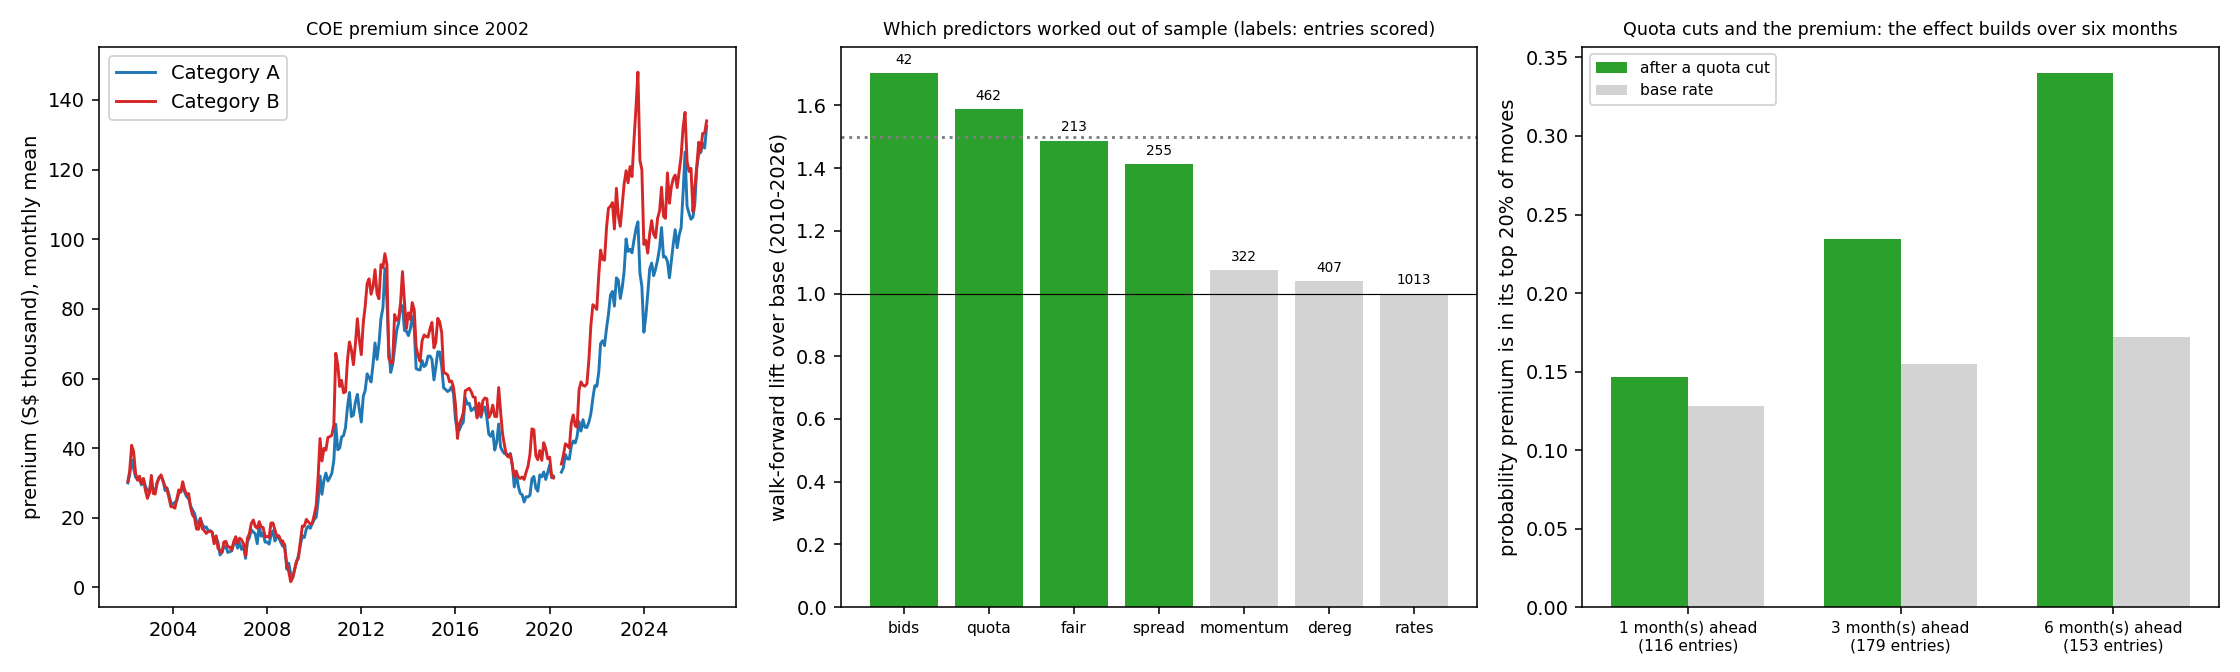
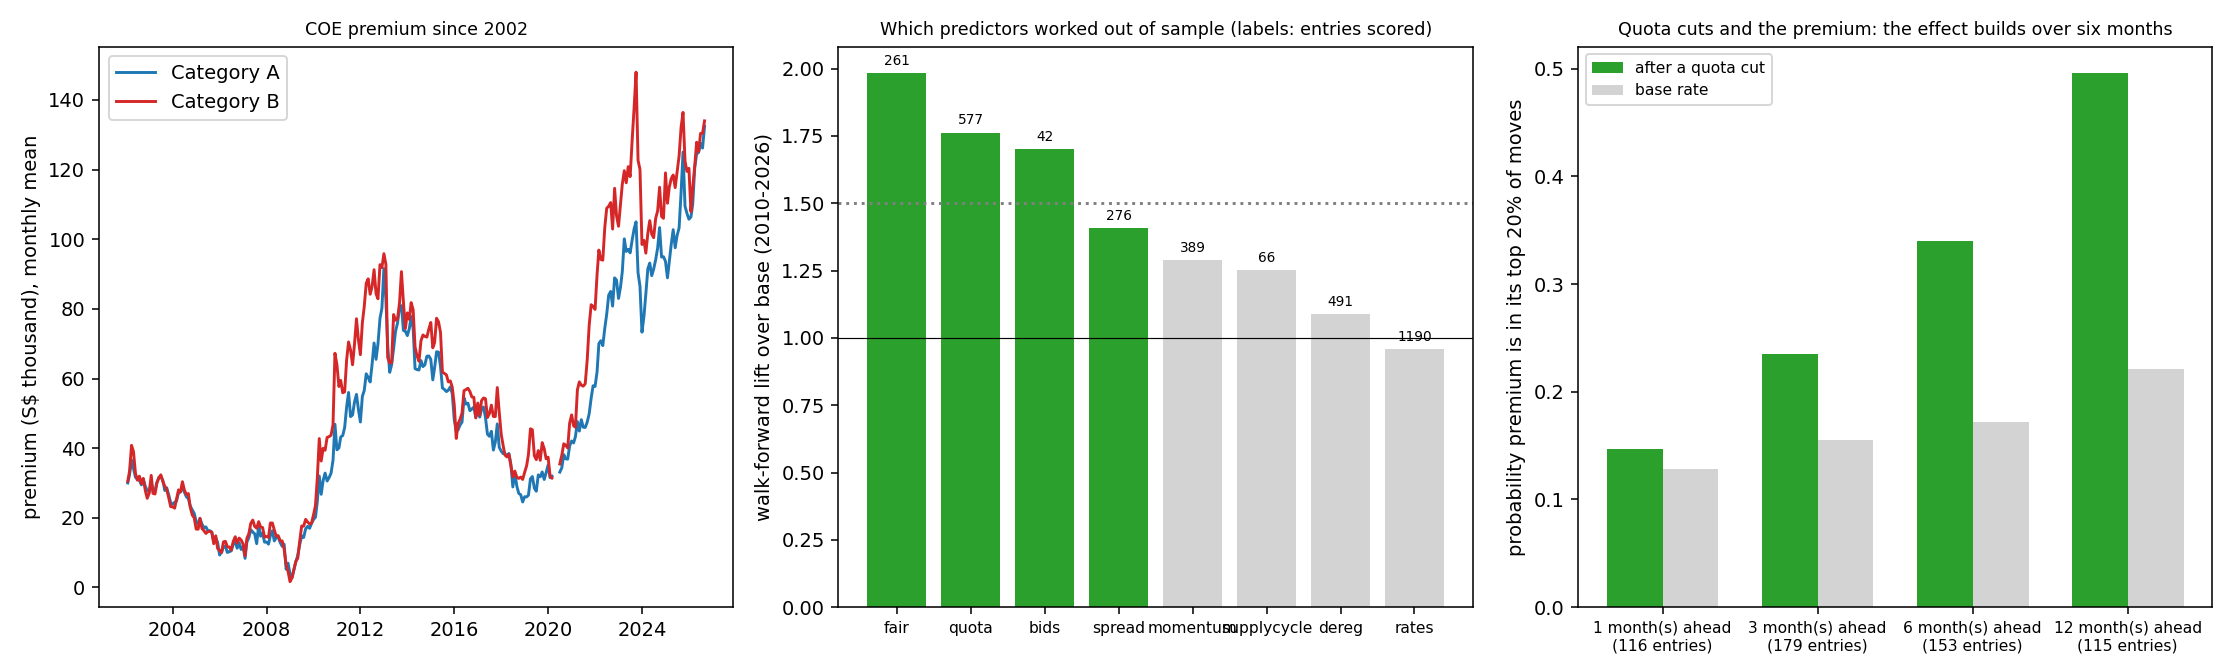
COE: decade-long cycle and the 10-year COE life; supply-cycle family and 12-month horizon in the walk-forward

diff --git a/research/coe_cycle_analysis.py b/research/coe_cycle_analysis.py
@@ -1,0 +1,77 @@
+"""Is there a roughly decade-long cycle in the COE premium, and does the 10-year COE life explain it?
+1. Periodicity: peaks and troughs of the 12-month-smoothed log premium; periodogram of the detrended log premium (linear trend in the log), Category A and B.
+2. Echo: a COE lasts 10 years, so cars registered in month t reach expiry in month t+120 (renewal for 5 or 10 years is possible at the prevailing premium). Cross-correlation of de-registrations with new registrations k months earlier (k = 0..180), and of quota with new registrations 120 months earlier.
+3. Pipeline: new registrations 120 months ago, as a schedule of expiries for the coming years, against current de-registrations and quota.
+Caveat in the output: the premium has only about two full cycles in 24 years."""
+import os, sys, warnings
+warnings.filterwarnings('ignore')
+import numpy as np, pandas as pd
+import matplotlib; matplotlib.use('Agg'); import matplotlib.pyplot as plt
+ROOT = os.path.dirname(os.path.dirname(os.path.abspath(__file__))); sys.path.insert(0, ROOT)
+from sgtiming import panel
+Q = panel.quota_panel(); F = panel.flows()
+
+print('1. PERIODICITY OF THE PREMIUM')
+for cat in ['A', 'B']:
+    lp = np.log(Q[cat]['premium']).interpolate(); sm = lp.rolling(12, center=True, min_periods=6).mean()
+    # local extrema of the smoothed series with a 36-month exclusion window
+    ex = []
+    for i in range(36, len(sm) - 36):
+        w = sm.iloc[i - 36:i + 37]
+        if sm.iloc[i] == w.max(): ex.append(('peak', sm.index[i].strftime('%Y-%m'), round(float(np.exp(sm.iloc[i])))))
+        if sm.iloc[i] == w.min(): ex.append(('trough', sm.index[i].strftime('%Y-%m'), round(float(np.exp(sm.iloc[i])))))
+    print(f' Category {cat} extrema of the smoothed premium: {ex}')
+    t = np.arange(len(lp)); b = np.polyfit(t, lp.values, 1); res = lp.values - np.polyval(b, t); res = res - res.mean()
+    n = len(res); pad = 8 * n; fft = np.fft.rfft(res * np.hanning(n), pad); power = np.abs(fft) ** 2; freq = np.fft.rfftfreq(pad, d=1.0)   # cycles per month
+    per = np.where(freq > 0, 1 / np.maximum(freq, 1e-9) / 12, np.inf)   # years
+    m = (per >= 2) & (per <= 20); top = np.argsort(power[m])[::-1][:1]; print(f'   periodogram peak of the detrended log premium (periods 2 to 20 years): {per[m][top][0]:.1f} years; detrended series spans {n / 12:.1f} years')
+    ac = pd.Series(res).autocorr
+    print('   autocorrelation of the detrended log premium at lags of 2, 4, 6, 8, 10, 12 years:', [round(ac(int(12 * y)), 2) for y in (2, 4, 6, 8, 10, 12)])
+
+print('\n2. ECHO OF THE 10-YEAR COE LIFE')
+nr = (F['newreg_A'] + F['newreg_B']); dr = (F['dereg_A'] + F['dereg_B']); q = (Q['A']['quota'] + Q['B']['quota'])
+d = pd.DataFrame({'nr': nr, 'dr': dr}).dropna(); res = []
+for k in range(0, 181, 6):
+    x = np.log(d['nr'].shift(k)); y = np.log(d['dr']); ok = x.notna() & y.notna(); res.append((k, float(np.corrcoef(x[ok], y[ok])[0, 1])))
+print(' corr(log de-registrations_t, log new registrations_{t-k}) by lag k in months:'); print('  ', [(k, round(c, 2)) for k, c in res if k % 12 == 0])
+best = max(res, key=lambda r: r[1]); print(f'   strongest lag in this grid: {best[0]} months (corr {best[1]:.2f})')
+x = np.log(nr.shift(120)); y = np.log(q.reindex(nr.index)); ok = x.notna() & y.notna(); print(f' corr(log quota_t, log new registrations_{{t-120}}) over {ok.sum()} months: {np.corrcoef(x[ok], y[ok])[0, 1]:.2f}')
+x2 = np.log(nr.shift(120).rolling(12).mean()); y2 = np.log(dr.rolling(12).mean()); ok = x2.notna() & y2.notna(); print(f' corr of 12-month means, de-registrations vs new registrations 10 years earlier: {np.corrcoef(x2[ok], y2[ok])[0, 1]:.2f} ({ok.sum()} months)')
+
+print('\n3. EXPIRY PIPELINE (new registrations 120 months earlier, A+B, monthly average per year)')
+sched = nr.copy(); sched.index = sched.index + pd.DateOffset(months=120)
+for yr in range(2018, 2030):
+    s = sched[sched.index.year == yr]; a = dr[dr.index.year == yr]; qq = q[q.index.year == yr]
+    print(f'  {yr}: scheduled expiries (registrations of {yr - 10}) {s.mean():7.0f}/month' + (f' | actual de-registrations {a.mean():7.0f}' if len(a) else ' | (future)') + (f' | quota {qq.mean():6.0f}' if len(qq) else ''))
+fig, ax = plt.subplots(3, 1, figsize=(11, 10), sharex=True)
+for cat, col in (('A', 'tab:blue'), ('B', 'tab:red')): ax[0].plot(Q[cat].index, Q[cat]['premium'] / 1000, color=col, label=f'Category {cat}')
+ax[0].set_ylabel('premium (S$ thousand)'); ax[0].legend(); ax[0].set_title('COE premium and the 10-year echo', fontsize=10)
+ax[1].plot(nr.index, nr.rolling(6).mean(), color='tab:green', label='new registrations A+B (6-month mean)'); ax[1].plot(dr.index, dr.rolling(6).mean(), color='tab:orange', label='de-registrations A+B (6-month mean)'); ax[1].legend(fontsize=8); ax[1].set_ylabel('vehicles per month')
+ax[2].plot(sched.index, sched.rolling(6).mean(), color='tab:green', label='scheduled expiries: registrations 10 years earlier'); ax[2].plot(dr.index, dr.rolling(6).mean(), color='tab:orange', label='de-registrations'); ax[2].legend(fontsize=8); ax[2].set_ylabel('vehicles per month'); ax[2].set_xlim(pd.Timestamp('2002-01-01'), pd.Timestamp('2030-01-01'))
+plt.tight_layout(); plt.savefig(os.path.join(ROOT, 'research', 'coe_cycle_figure.png'), dpi=140)
+
+print('\n4. DOES THE KNOWN-AHEAD EXPIRY SCHEDULE SAY ANYTHING ABOUT THE NEXT 24 MONTHS OF PREMIUM? (two cycles only; overlapping months)')
+sch12 = np.log(sched.rolling(12).mean())               # schedule of expiries, indexed by the month the expiries fall due (known 10 years ahead)
+for cat in ['A', 'B']:
+    lp = np.log(Q[cat]['premium']).interpolate()
+    for h in (12, 24):
+        x = sch12.shift(-h) - sch12                      # change in the scheduled expiry flow over the next h months, known today
+        y = lp.shift(-h) - lp
+        d = pd.DataFrame({'x': x, 'y': y}).dropna(); d = d[(d.index >= '2008-01-01')]
+        print(f'  Category {cat}, h={h}: corr(next-{h}m change in scheduled expiries, next-{h}m change in premium) = {d.x.corr(d.y):+.2f} over {len(d)} months (about {len(d)/h:.1f} independent windows)')
+        # sign hit rate: when the schedule says supply will rise, does the premium fall?
+        up = d[d.x > 0.15]; dn = d[d.x < -0.15]
+        print(f'     schedule rising by >15%: {len(up)} months, premium fell in {np.mean(up.y < 0):.2f}; schedule falling by >15%: {len(dn)} months, premium rose in {np.mean(dn.y > 0):.2f}')
+latest = sched.rolling(12).mean()
+print('\n  scheduled expiries, 12-month mean (vehicles per month): mid-2026', round(float(latest['2026-08-01'])), '| 12 months ahead (Aug 2027)', round(float(latest['2027-08-01'])), '| 24 months ahead (Aug 2028)', round(float(latest['2028-08-01'])), '| actual de-registrations, 12-month mean now', round(float(dr.rolling(12).mean().iloc[-1])))
+
+print('\n5. LAG STRUCTURE: detrended log premium against the supply cycle (12-month mean de-registrations, A+B) k months earlier')
+dr12 = np.log(dr.rolling(12).mean())
+for cat in ['A', 'B']:
+    lp = np.log(Q[cat]['premium']).interpolate(); t = np.arange(len(lp)); res = pd.Series(lp.values - np.polyval(np.polyfit(t, lp.values, 1), t), index=lp.index)
+    out = []
+    for k in range(0, 61, 6):
+        d = pd.DataFrame({'p': res, 's': dr12.shift(k)}).dropna(); out.append((k, round(d.p.corr(d.s), 2)))
+    best = min(out, key=lambda r: r[1]); print(f'  Category {cat}: corr by lag k (months) {out}; most negative at k = {best[0]} ({best[1]})')
+    for lab, a, b in (('2002-2013', '2002-01-01', '2013-12-31'), ('2014-2026', '2014-01-01', '2026-09-30')):
+        dd = pd.DataFrame({'p': res, 's': dr12.shift(18)})[a:b].dropna(); print(f'     lag 18 months, {lab}: {dd.p.corr(dd.s):+.2f} ({len(dd)} months)')

diff --git a/research/coe_cpe_walkforward.py b/research/coe_cpe_walkforward.py
@@ -10,6 +10,7 @@ Predictors X (mechanism registered before any result; sign +1 = high X means pre
   fair     : log premium minus a quota-implied level (log premium on log 12-month quota, refit each year on past data)  -1
   spread   : log(B/A) minus its trailing 12-month mean; +1 for A (A cheap against B), -1 for B
   momentum : change in log premium over tau_p months                                  +1  (continuation)
+  supplycycle: change over the 12 months ending L months ago (L = 6, 12, 18) in the 12-month mean of de-registrations (which set the quota; the premium lags the supply cycle by 18 to 24 months, found in coe_cycle_analysis.py)   -1  (registered after that finding, so out-of-sample only from the walk-forward years)
 tau_p in 1, 3, 6, 12 where it applies; X tails q = 20% and 10% on each side.
 Walk-forward: for each test year 2010..2026, only entries whose outcome had resolved before 1 January of that year are used to set X and Y thresholds
 (all earlier data) and to admit conditions (lift >= 1.5, >= 20 entries, >= 4 episodes of entries more than tau_f months apart; base rate matched on calendar month).
@@ -22,7 +23,7 @@ ROOT = os.path.dirname(os.path.dirname(os.path.abspath(__file__))); sys.path.ins
 from sgtiming import panel
 
 Q = panel.quota_panel(); F = panel.flows(); R = panel.rates(); idx = Q['A'].index
-TP = [1, 3, 6, 12]; TF = [1, 3, 6]; QS = [0.20, 0.10]; YEARS = list(range(2010, 2027)); LAGD = 2
+TP = [1, 3, 6, 12]; TF = [1, 3, 6, 12]; QS = [0.20, 0.10]; YEARS = list(range(2010, 2027)); LAGD = 2
 
 
 def build_X(cat):
@@ -30,13 +31,15 @@ def build_X(cat):
     lp = np.log(d['premium']); lq = np.log(d['quota']); ratio = d['bids'] / d['quota']
     dereg = F['dereg_' + cat].reindex(idx).shift(LAGD); gov = R['gov2y'].reindex(idx).shift(1)
     spread = (np.log(Q['B']['premium']) - np.log(Q['A']['premium'])); sp_dev = spread - spread.rolling(12, min_periods=9).mean()
-    X = {}; SIGN = {'quota': -1, 'dereg': -1, 'bids': +1, 'rates': -1, 'value': -1, 'fair': -1, 'spread': (+1 if cat == 'A' else -1), 'momentum': +1}
+    X = {}; SIGN = {'quota': -1, 'dereg': -1, 'bids': +1, 'rates': -1, 'value': -1, 'fair': -1, 'supplycycle': -1, 'spread': (+1 if cat == 'A' else -1), 'momentum': +1}
     for tp in TP:
         X[('quota', tp)] = lq - lq.shift(tp)
         X[('dereg', tp)] = np.log(dereg.rolling(tp, min_periods=max(1, tp // 2)).mean()) - np.log(dereg.rolling(12, min_periods=9).mean())
         X[('bids', tp)] = ratio.rolling(tp, min_periods=max(1, tp // 2)).mean()
         X[('rates', tp)] = gov - gov.shift(tp)
         X[('momentum', tp)] = lp - lp.shift(tp)
+    sc = np.log(dereg.rolling(12, min_periods=9).mean())
+    for L in (6, 12, 18): X[('supplycycle', L)] = sc.shift(L) - sc.shift(L + 12)
     X[('value', 0)] = lp - lp.rolling(12, min_periods=9).mean(); X[('spread', 0)] = sp_dev
     return lp, lq, X, SIGN
 

diff --git a/research/RESULTS.md b/research/RESULTS.md
@@ -5,12 +5,12 @@ Data: monthly series from data.gov.sg, 2002-02 to 2026-09 (296 months), old Cate
 ## Design
 Eight predictor families with the mechanism registered first (quota supply, de-registrations, bid pressure, interest rates, valuation against the one-year mean, valuation against a quota-implied level, the B/A spread, momentum), tau_p of 1 to 12 months, tau_f of 1, 3 and 6 months, X tails of 20% and 10% on each side. For each test year 2010 to 2026 all thresholds and the admission (lift >= 1.5, >= 20 entries, >= 4 episodes, base rate matched on calendar month) use only entries whose outcome had resolved before 1 January of that year. Admitted conditions are scored on that year's entries; pooled lift is against the same-calendar-month base rate over 2010 to 2026. Entries overlap (every month is an entry), so counts of scored months are reported next to episodes.
 
-## Results
-- 715 admitted condition-years (198 distinct conditions), 2,714 scored entries: CPE 0.160 against a base of 0.132, lift 1.21.
-- By family (lift, entries): quota 1.59 (462), bids 1.70 (42, too few), quota-implied level 1.49 (213), spread 1.41 (255); momentum 1.07, de-registrations 1.04, interest rates 1.00. By horizon: one month 0.93, three months 1.12, six months 1.52.
-- Rarity: no gradient overall (20% tails 1.26, 10% tails 1.06); inside the quota family the rarer tail is stronger (1.83 against 1.47).
-- The quota effect is one-sided. After quota cuts the premium is in its top 20% of six-month moves 34% of the time against 17% (lift 1.98, 153 entries; three months 1.51, one month 1.15). Quota increases are not followed by lower premiums (three admitted condition-years). The effect builds over about six months.
-- It is not stable: the quota family scored 3.2 in 2021 and 2.9 in 2012 but 0.3 in 2019 and 0.5 in 2023. The 105 scored (category, month) cells in the quota family cover 13 years and amount to roughly 20 to 35 independent three-to-six-month windows.
+## Results (horizons of 1, 3, 6 and 12 months; ninth family, the lagged supply cycle, added after the cycle analysis below)
+- 848 admitted condition-years (244 distinct conditions), 3,292 scored entries: CPE 0.178 against a base of 0.136, lift 1.31.
+- By family (lift, entries): quota-implied level 1.98 (261; see the specification caveat below), quota 1.76 (577), bids 1.70 (42, too few), spread 1.41 (276), momentum 1.29 (389), supply cycle 1.25 (66, only 6 admitted condition-years), de-registrations 1.09, interest rates 0.96. By horizon: one month 0.93, three 1.12, six 1.52, twelve 1.72.
+- Rarity: no gradient overall (20% tails 1.34, 10% tails 1.20); inside the quota family the rarer tail is stronger (Category B 2.45 against 1.68).
+- The quota effect is one-sided and builds with the horizon. After quota cuts the premium is in its top 20% of moves this often against the base rate: one month 15% against 13%, three months 24% against 16%, six months 34% against 17% (lift 1.98), twelve months 50% against 22% (lift 2.24, 115 entries). Quota increases are not followed by lower premiums (three admitted condition-years).
+- It is not stable by year (the quota family scored 3.2 in 2021 and 2.9 in 2012, but 0.3 in 2019 and 0.5 in 2023) and the evidence is roughly 20 to 35 independent windows.
 - Quota is announced a quarter ahead and, since 2023, is a four-quarter rolling average of de-registrations, so the market knows it; the result says the premium reacts slowly to it, not that it is a surprise.
 
 ## State in September 2026
@@ -21,3 +21,10 @@ Category A, last ten years: lower after 3 months 37%, up more than 5% 45%, media
 
 ## Reading
 Premium timing is mostly a base-rate problem. The one mechanism with out-of-sample support is a quota cut leading to a higher premium over about six months, and it is uneven across years; no condition is firing now. The dashboard should show the base rates, the quota calendar and the state of the registered predictors, and say plainly that no condition is active.
+
+## A decade-long cycle (`coe_cycle_analysis.py`, `coe_cycle_figure.png`)
+- Premium: smoothed troughs in January 2009 and March 2019 (Category A; September 2018 for B), peaks in May 2013 (A) and September 2012 (B); the periodogram of the detrended log premium peaks at 11.6 years for both, and the autocorrelation is about +0.5 at 10 years and +0.8 at 12 years. That is two cycles in 24.7 years, so the period is an estimate, not a finding.
+- Mechanism: a COE lasts ten years, so registrations ten years ago are a schedule of expiries. Since 2018 that schedule tracks actual de-registrations closely (correlation of 12-month means 0.96; 0.72 in 2010 to 2017; only 0.33 in the 2000s), and 12-month de-registrations track quota at 0.93.
+- Lag: the detrended premium is negatively related to the supply cycle (12-month mean de-registrations) 18 to 24 months earlier: correlation -0.72 (A, 24 months) and -0.67 (B, 18 months), and at 18 months -0.71 in 2002 to 2013 against -0.88 in 2014 to 2026 for A. This is a statement about levels around a trend, not a forecast of tail moves.
+- Pipeline: scheduled expiries average 6,770 vehicles a month for the year to August 2026, 7,570 a year ahead and 7,050 two years ahead, against 5,180 actual de-registrations over the last 12 months, so the quota is set to keep rising through 2027 to 2028. At an 18 to 24 month lag that points to easing premium pressure from 2027, but the premium rose to record highs through 2024 to 2026 while de-registrations were already rising from the 2023 low, so demand or the lag is overriding the supply cycle for now.
+- As a registered event predictor the lagged supply-cycle change was admitted in only 6 condition-years (lift 1.25), and a simple test of the known-ahead schedule against the next 12 or 24 months of premium change had the wrong sign (+0.15 and +0.17), because the lag is 18 to 24 months. Reading: a real, mechanism-backed cycle that is useful as a description of where the market is in the supply cycle; turning points are not validated as forecasts.

diff --git a/README.md b/README.md
@@ -25,7 +25,8 @@ It is a general, public research tool with nothing personalised in it, and it is
 Monthly series from 2002 (296 months), old Category A and B, eight registered predictor families, a causal walk-forward from 2010 (details and caveats in `research/RESULTS.md`).
 
 - Latest (September 2026, monthly mean of the two rounds): Category A S$132,450, the highest on record; Category B S$134,000.
-- Overall the walk-forward lift is modest (1.21). Supply-side conditions did best: after a quota cut the premium was in its top 20% of six-month moves 34% of the time against a 17% base. Interest rates, de-registrations and momentum added nothing, and the effect is uneven from year to year.
+- Overall the walk-forward lift is modest (1.31). Supply-side conditions did best: after a quota cut the premium was in its top 20% of twelve-month moves 50% of the time against a 22% base. Interest rates and de-registrations added nothing, and the effect is uneven from year to year.
+- There is a decade-long cycle (premium troughs in 2009 and 2019, peaks around 2013): it follows the ten-year COE life, which drives de-registrations and so quota, with the premium lagging the supply cycle by 18 to 24 months. Scheduled expiries point to rising quota through 2027 to 2028. Only two cycles, so turning points are not validated as forecasts.
 - No admitted condition is firing now. The dashboard will show base rates, the quota calendar and the state of each predictor, and say so when nothing is active.
 - Base rates over the last ten years: after three months the Category A premium was higher 63% of the time and rose more than 5% in 45% of windows; after six months the median change was +6.5%. These carry a decade of rising premiums.
 
